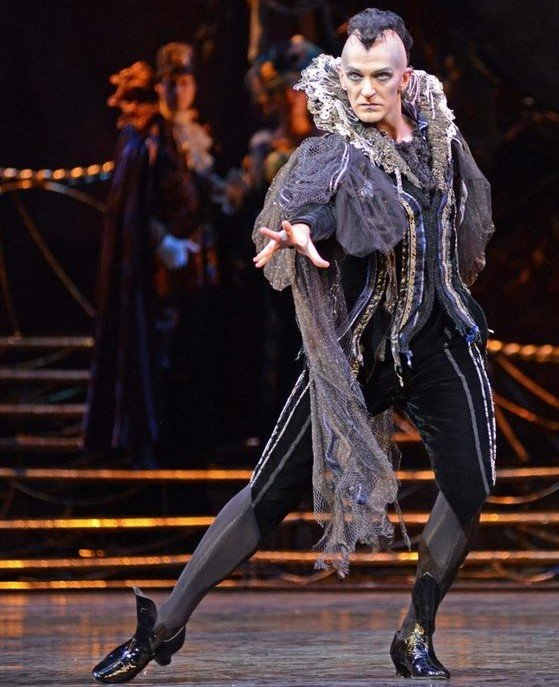
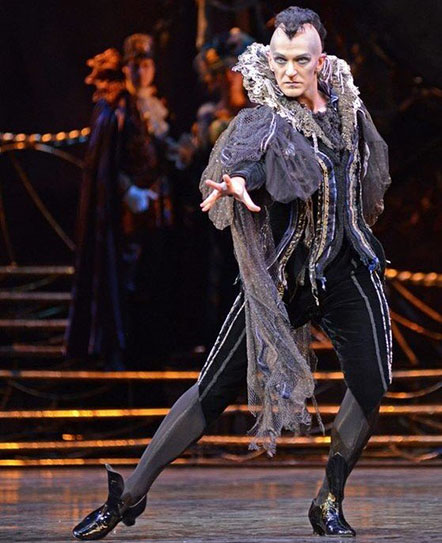
img, css, grid

diff --git a/index.html b/index.html
@@ -113,14 +113,20 @@
 				<h1>Primeiras montagens</h1>
 				<h2>Première Mundial</h2>
 				<p>	Data: 20 de fevereiro de 1877 Lugar: Teatro Bolshoi, Moscou Coreógrafo: Vladimir Begitchev é Vasily Geltzer Regente: Stepan Ryabov</p>
-				<img src="img/1877.jpg" alt="Odette de 1877">
+				<img class="imgcentro" src="img/1877.jpg" alt="Odette de 1877">
 				<figcaption>Odette de 1877</figcaption>
 				<h2>Apresentação à Corte Imperial</h2>
 				<p>	Data: 15 de janeiro de 1895 Lugar: Teatro Mariinsky, São Petersburgo Coreógrafo: Marius Petipa, Atos 1 e 3, Lev Ivanov, Atos 2 e 4 Regente: Riccardo Drigo</p>
-				<img src="img/1895.jpg" alt="Príncipe Siegfried de 1895">
-				<figcaption>Príncipe Siegfried de 1895</figcaption>
-				<img src="img/1895 odette.jpg" alt="Odette de 1895">
-				<figcaption>Odette de 1895</figcaption>
+				<div class="linha">
+					<div class="col-6">
+						<img src="img/1895.jpg" alt="Príncipe Siegfried de 1895">
+						<figcaption>Príncipe Siegfried de 1895</figcaption>
+					</div>
+					<div class="col-6">
+						<img src="img/1895 odette.jpg" alt="Odette de 1895">
+						<figcaption>Odette de 1895</figcaption>
+					</div>
+				</div>
 			</article>
 		</section>
 		<section id="varia">
@@ -142,12 +148,12 @@
 				<h1>Dos palcos para as telas</h1>
 				<h2>Cinema</h2>
 				<p>	Faz parte da trama central do filme "Cisne Negro", com Natalie Portman e Vincent Cassel.</p>
-				<img src="img/Cisne negro.jpg" alt="Cisne Negro filme">
+				<img class="imgcentro" src="img/Cisne negro.jpg" alt="Cisne Negro filme">
 				<p> Representado em Barbie em O Lago dos Cisnes e em Barbie e as Sapatilhas Mágicas, numa adaptação feita para a animação em 2003 e 2013, respectivamente. E inspirou a animação A Princesa Encantada de 1994.</p>
-				<img src="img/Barbie.webp" alt="Barbie em O lago dos Cisnes">
+				<img class="imgcentro" src="img/Barbie.webp" alt="Barbie em O lago dos Cisnes">
 				<h2>Desenhos animados</h2>
 				<p>No desenho animado Ever After High, Duquesa Swan é filha da princesa Odette (também conhecida como Rainha Cisne).</p>
-				<img src="img/Duquesa Swan.jpg" alt="Duquesa Swan">
+				<img class="imgcentro" src="img/Duquesa Swan.jpg" alt="Duquesa Swan">
 			</article>
 		</section>
 	</div>

diff --git a/css/style.css b/css/style.css
@@ -116,6 +116,13 @@ a{
     margin: 1%;
 }
 
+.imgcentro{
+    display: block;
+    margin-left: auto;
+    margin-right: auto;
+    width: 20%;
+}
+
 .linha{
     display: flex;
     flex-flow: row wrap;
